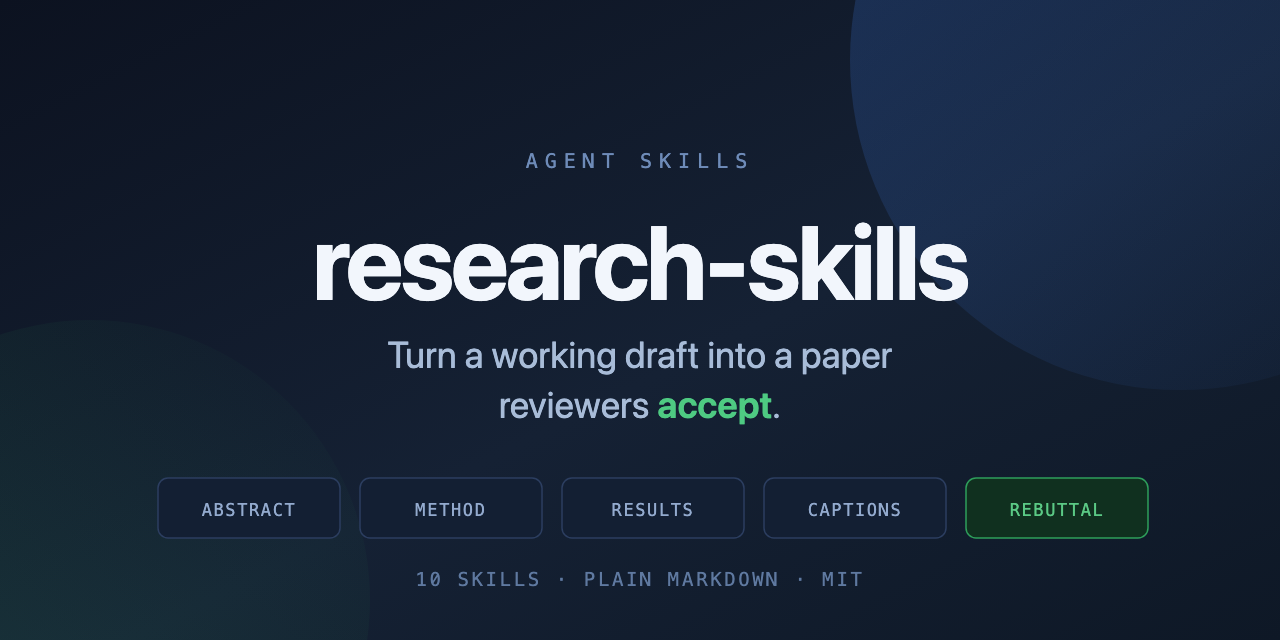
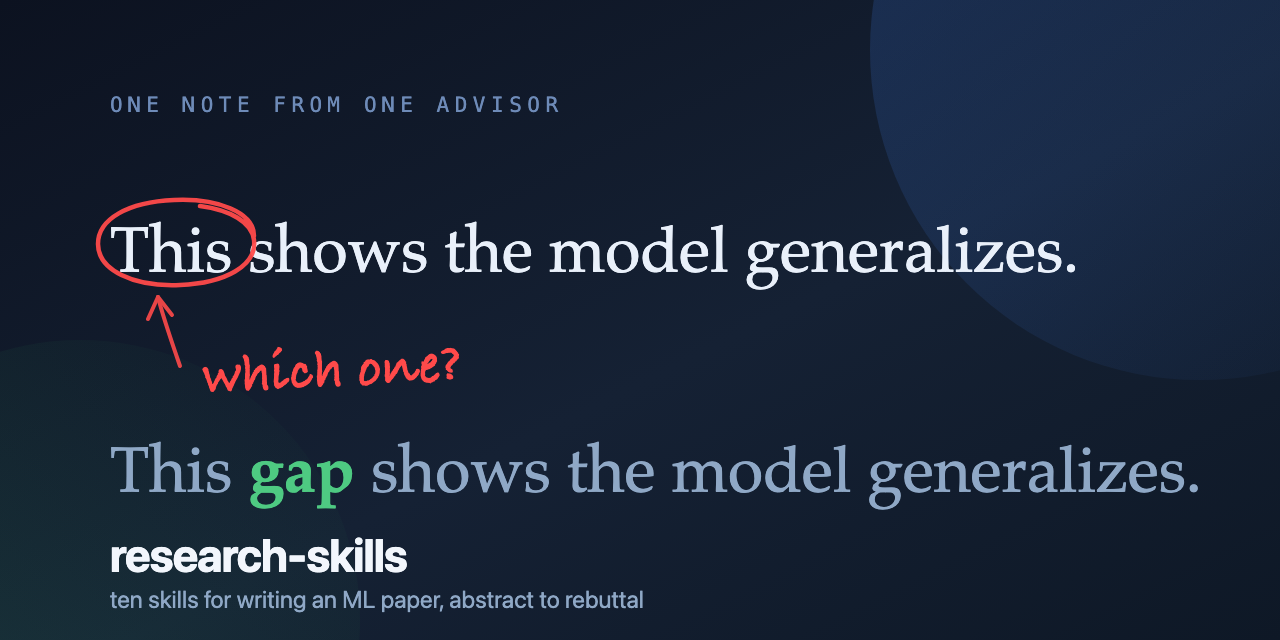
launch prep: red-pen social cards, audit.py linter, README fixes
Social previews rebuilt around the note the launch post is about: an advisor
circling a bare "This" and writing "which one?", with the fix underneath. The
"10 SKILLS / PLAIN MARKDOWN / MIT" footer is gone. Two sizes now ship, 1280x640
for the GitHub social preview and 1600x900 for attaching to a post, since a
16:9 image is what displays uncropped in a timeline.

scripts/audit.py runs the checkable rules over a .tex or .md file: bare
demonstratives, hedges, lonely numbers, agentless passives, dead nouns,
self-announcing captions, vague future work, overlong sentences, em dashes.
Standard library only. Strips math, figures, listings, and comments first so it
reads prose rather than markup. Exits 1 when anything is flagged, so it drops
into a pre-commit hook. It also gives the repo a detected language, which it
did not have before.

Two README bugs fixed. The "take all ten" install command copied nine, because
figure-creation matches neither *-writing nor sentence-audit. And the plain-
Markdown section still said nine folders.

Claude-Session: https://claude.ai/code/session_01RRsbmA6qCCvdik9wjVajS2

diff --git a/scripts/audit.py b/scripts/audit.py
@@ -1,0 +1,243 @@
+#!/usr/bin/env python3
+"""Run the sentence-audit defect list over a LaTeX or Markdown file.
+
+Every check here is one of the mechanical rules from the skills in this repo. The point is that
+these are the defects a machine can find, so you never spend a 2am pass hunting for them by eye.
+
+    python3 scripts/audit.py paper.tex
+    python3 scripts/audit.py --rules            list every rule and where it comes from
+    python3 scripts/audit.py paper.tex --only bare-this,hedge
+    python3 scripts/audit.py paper.tex --quiet  exit code only, for CI
+
+Exit code is 1 when anything is flagged, so it drops straight into a pre-commit hook.
+"""
+
+from __future__ import annotations
+
+import argparse
+import re
+import sys
+from dataclasses import dataclass
+from pathlib import Path
+
+# ---------------------------------------------------------------------------
+# LaTeX stripping. We audit prose, not markup, so math and code never get flagged.
+# ---------------------------------------------------------------------------
+
+_BLANKED = [
+    (re.compile(r"(?s)\\begin\{(equation|align|figure|table|lstlisting|verbatim|algorithm)\*?\}.*?"
+                r"\\end\{\1\*?\}"), " "),
+    (re.compile(r"(?s)\$\$.*?\$\$"), " MATH "),
+    (re.compile(r"\$[^$\n]*\$"), " MATH "),
+    (re.compile(r"(?s)```.*?```"), " CODE "),
+    (re.compile(r"`[^`\n]*`"), " CODE "),
+    (re.compile(r"(?m)^\s*%.*$"), " "),
+    (re.compile(r"\\(cite|ref|label|eqref|autoref)\{[^}]*\}"), " CITE "),
+    (re.compile(r"\\[a-zA-Z@]+\*?(\[[^\]]*\])?"), " "),
+]
+
+
+def strip_markup(text: str) -> str:
+    for pattern, repl in _BLANKED:
+        text = pattern.sub(repl, text)
+    return text.replace("{", " ").replace("}", " ")
+
+
+def sentences(text: str):
+    """Yield (sentence, offset). Abbreviations that are not sentence ends are respected."""
+    protected = re.sub(r"\b(e\.g|i\.e|et al|cf|vs|Fig|Eq|Sec|Tab|Alg|approx|resp)\.",
+                       lambda m: m.group(0).replace(".", "\x00"), text)
+    start = 0
+    for match in re.finditer(r"[.!?](?=\s|$)", protected):
+        end = match.end()
+        chunk = protected[start:end].replace("\x00", ".").strip()
+        if chunk:
+            yield chunk, start
+        start = end
+    tail = protected[start:].replace("\x00", ".").strip()
+    if tail:
+        yield tail, start
+
+
+@dataclass
+class Finding:
+    line: int
+    rule: str
+    excerpt: str
+    message: str
+
+
+# ---------------------------------------------------------------------------
+# The rules. Each returns a list of (offset, excerpt, message).
+# ---------------------------------------------------------------------------
+
+RULE_SOURCES = {
+    "bare-this": "sentence-audit: never a bare This/These",
+    "hedge": "abstract-writing: no 'can', it concedes the result might not happen",
+    "lonely-number": "results-writing: numbers travel in pairs",
+    "weak-verb": "abstract-writing: strongest verb available",
+    "passive": "results-writing: name the agent",
+    "dead-noun": "sentence-audit: categories with no members",
+    "long-sentence": "sentence-audit: short sentences, divide and condense",
+    "em-dash": "house style: no em dashes",
+    "caption-shows": "caption-writing: captions state the claim, not 'This figure shows'",
+    "future-work-vague": "conclusion-writing: a refutable vista, not a gesture",
+}
+
+_BARE_THIS = re.compile(r"(?<![\w-])(This|These|That|Those)\s+(?=(is|are|was|were|shows?|showed|"
+                        r"demonstrates?|means?|meant|suggests?|implies|indicates?|gives?|makes?|"
+                        r"allows?|leads?|results?|happens?|follows?|holds?)\b)")
+_HEDGE = re.compile(r"(?<![\w-])(can|could|may|might|potentially|possibly|arguably)(?![\w-])", re.I)
+_WEAK_VERB = re.compile(r"(?<![\w-])(is able to|serves as|acts as|is designed to|aims to|"
+                        r"seeks to|attempts to|works to|helps to|is used to)(?![\w-])", re.I)
+_PASSIVE = re.compile(r"(?<![\w-])(was|were|is|are|been|being)\s+(\w+ed|shown|found|seen|given|"
+                      r"taken|known|done|made|held|built|drawn)(?![\w-])", re.I)
+_DEAD_NOUN = re.compile(r"(?<![\w-])(thing|things|stuff|aspect|aspects|factor|factors|element|"
+                        r"elements|issue|issues|area|areas)(?![\w-])", re.I)
+_CAPTION_SHOWS = re.compile(r"(?i)\b(this|the)\s+(figure|table|plot|chart|graph)\s+(shows|"
+                            r"illustrates|depicts|presents|displays)\b")
+_VAGUE_FUTURE = re.compile(r"(?i)\b(future work|we (?:plan|hope|intend) to|in future|"
+                           r"further (?:research|work|study))\b")
+_NUMBER = re.compile(r"(?<![\w.])(\d+(?:[.,]\d+)?)\s*(%|percent|x|ms|s|GB|MB|K|M|B)?(?![\w])")
+
+MAX_WORDS = 45
+
+
+def _is_incidental(token: str) -> bool:
+    """Small counts and four-digit years are not claims, so they need no comparison."""
+    try:
+        value = float(token.replace(",", ""))
+    except ValueError:
+        return True
+    if value in (1, 2, 3, 4):
+        return True
+    return token.isdigit() and len(token) == 4 and 1900 <= value <= 2099
+
+
+def _flag(pattern, sentence, message, *, only_first=True):
+    out = []
+    for m in pattern.finditer(sentence):
+        out.append((m.start(), m.group(0).strip(), message))
+        if only_first:
+            break
+    return out
+
+
+def check_sentence(sentence: str, rules: set[str]):
+    found = []
+    if "bare-this" in rules:
+        found += _flag(_BARE_THIS, sentence,
+                       "bare demonstrative: name the noun it points at")
+    if "hedge" in rules:
+        found += _flag(_HEDGE, sentence,
+                       "hedge: state what the system does, not what it could do")
+    if "weak-verb" in rules:
+        found += _flag(_WEAK_VERB, sentence, "weak verb periphrasis: use the verb itself")
+    if "passive" in rules:
+        found += _flag(_PASSIVE, sentence, "passive with no agent: say who or what did it")
+    if "dead-noun" in rules:
+        found += _flag(_DEAD_NOUN, sentence, "dead noun: a category with no members")
+    if "caption-shows" in rules:
+        found += _flag(_CAPTION_SHOWS, sentence,
+                       "caption opens by announcing itself: lead with the claim instead")
+    if "future-work-vague" in rules:
+        for m in _VAGUE_FUTURE.finditer(sentence):
+            if not _NUMBER.search(sentence):
+                found.append((m.start(), m.group(0),
+                              "vague future work: name what would be measured"))
+            break
+    if "em-dash" in rules and "\u2014" in sentence:
+        found.append((sentence.index("\u2014"), "\u2014", "em dash: house style forbids it"))
+    if "long-sentence" in rules:
+        words = len(sentence.split())
+        if words > MAX_WORDS:
+            found.append((0, f"[{words} words]",
+                          f"sentence runs {words} words: divide it"))
+    if "lonely-number" in rules:
+        numbers = [m for m in _NUMBER.finditer(sentence)
+                   if m.group(2) or not _is_incidental(m.group(1))]
+        if len(numbers) == 1 and not re.search(
+                r"(?i)\b(versus|vs\.?|against|compared|baseline|from|than|up|down|over)\b", sentence):
+            m = numbers[0]
+            found.append((m.start(), m.group(0),
+                          "lonely number: pair it with what it beats"))
+    return found
+
+
+def audit(path: Path, rules: set[str]) -> list[Finding]:
+    raw = path.read_text(encoding="utf-8", errors="replace")
+    prose = strip_markup(raw) if path.suffix in {".tex", ".latex"} else raw
+    # Offsets survive stripping only if lengths match, so recompute line numbers from the
+    # stripped text and accept that they track the stripped copy for .tex input.
+    findings = []
+    for sentence, offset in sentences(prose):
+        line = prose.count("\n", 0, offset) + 1
+        for local, excerpt, message in check_sentence(sentence, rules):
+            findings.append(Finding(line, _rule_for(message), excerpt, message))
+    return findings
+
+
+def _rule_for(message: str) -> str:
+    table = {
+        "bare demonstrative": "bare-this", "hedge:": "hedge", "weak verb": "weak-verb",
+        "passive with": "passive", "dead noun": "dead-noun", "caption opens": "caption-shows",
+        "vague future": "future-work-vague", "em dash": "em-dash",
+        "sentence runs": "long-sentence", "lonely number": "lonely-number",
+    }
+    for key, rule in table.items():
+        if message.startswith(key):
+            return rule
+    return "unknown"
+
+
+def main() -> int:
+    parser = argparse.ArgumentParser(description=__doc__,
+                                     formatter_class=argparse.RawDescriptionHelpFormatter)
+    parser.add_argument("files", nargs="*", type=Path)
+    parser.add_argument("--only", help="comma-separated rule names")
+    parser.add_argument("--rules", action="store_true", help="list the rules and exit")
+    parser.add_argument("--quiet", action="store_true", help="exit code only")
+    args = parser.parse_args()
+
+    if args.rules:
+        width = max(len(r) for r in RULE_SOURCES)
+        for rule, source in RULE_SOURCES.items():
+            print(f"  {rule:<{width}}  {source}")
+        return 0
+
+    if not args.files:
+        parser.error("give at least one file, or --rules")
+
+    rules = set(RULE_SOURCES)
+    if args.only:
+        asked = {r.strip() for r in args.only.split(",")}
+        unknown = asked - rules
+        if unknown:
+            parser.error(f"unknown rule(s): {', '.join(sorted(unknown))}")
+        rules = asked
+
+    total = 0
+    for path in args.files:
+        if not path.exists():
+            print(f"{path}: no such file", file=sys.stderr)
+            return 2
+        findings = audit(path, rules)
+        total += len(findings)
+        if args.quiet:
+            continue
+        if not findings:
+            print(f"{path}: clean")
+            continue
+        print(f"\n{path}: {len(findings)} flagged\n")
+        for f in findings:
+            print(f"  {path}:{f.line}  [{f.rule}]")
+            print(f"      {f.excerpt}")
+            print(f"      {f.message}")
+    if not args.quiet and total:
+        print(f"\n{total} total. None of these are style opinions. Each one is a rule from a "
+              f"SKILL.md in this repo, and `--rules` says which.")
+    return 1 if total else 0
+
+
+if __name__ == "__main__":
+    raise SystemExit(main())

diff --git a/README.md b/README.md
@@ -56,10 +56,12 @@ cp -r research-skills/abstract-writing ~/.claude/skills/
 cp -r research-skills/sentence-audit  ~/.claude/skills/
 
 # or take all ten, personally:
-cp -r research-skills/*-writing research-skills/sentence-audit ~/.claude/skills/
+cp -r research-skills/*-writing research-skills/sentence-audit \
+      research-skills/figure-creation ~/.claude/skills/
 
 # or scope them to one project instead:
-cp -r research-skills/*-writing <your-project>/.claude/skills/
+cp -r research-skills/*-writing research-skills/sentence-audit \
+      research-skills/figure-creation <your-project>/.claude/skills/
 ```
 
 Then in Claude Code:
@@ -118,6 +120,34 @@ method-writing/
 the long form: worked recipes, fill-in templates, the "never do this in a method section" lists,
 and the reasoning behind each rule so you can overrule it deliberately.
 </details>
+
+## 🤖 The linter
+
+Most of the rules in this repo are mechanical, which means a script can check them. `scripts/audit.py`
+runs the checkable ones over a `.tex` or `.md` file. No dependencies, standard library only.
+
+```bash
+python3 scripts/audit.py paper.tex
+python3 scripts/audit.py --rules                    # every rule, and which skill it comes from
+python3 scripts/audit.py paper.tex --only bare-this
+python3 scripts/audit.py paper.tex --quiet          # exit code only, for a pre-commit hook
+```
+
+```
+paper.tex:118  [bare-this]
+    This
+    bare demonstrative: name the noun it points at
+paper.tex:118  [lonely-number]
+    93.3
+    lonely number: pair it with what it beats
+```
+
+It strips math, figures, listings, and comments before reading, so it audits prose rather than
+markup. It flags bare demonstratives, hedges, lonely numbers, agentless passives, dead nouns,
+captions that announce themselves, vague future work, and sentences that outran their point.
+
+It exits 1 when anything is flagged. The remaining rules in the guides are judgment calls, and
+those are what the agent is for.
 
 ## 🔗 How they chain
 
@@ -230,8 +260,8 @@ That is why the rules are oddly specific. "Numbers travel in pairs" is in there 
 number drew a comment. "No bare This" is in there because an advisor circled one.
 ## 🪶 Why it's plain Markdown
 
-No framework. No dependencies. No database, daemon, or config to maintain. Nine folders, each with a
-`SKILL.md` any LLM can read.
+No framework. No dependencies. No database, daemon, or config to maintain. Ten folders, each with a
+`SKILL.md` any LLM can read, plus one script that checks the mechanical rules for you.
 Fork it and overrule the parts you disagree with. The guides explain the reasoning behind each rule
 precisely so you can. A house style you cannot argue with is not a house style, it is a cage.
 ## 📐 Conventions
